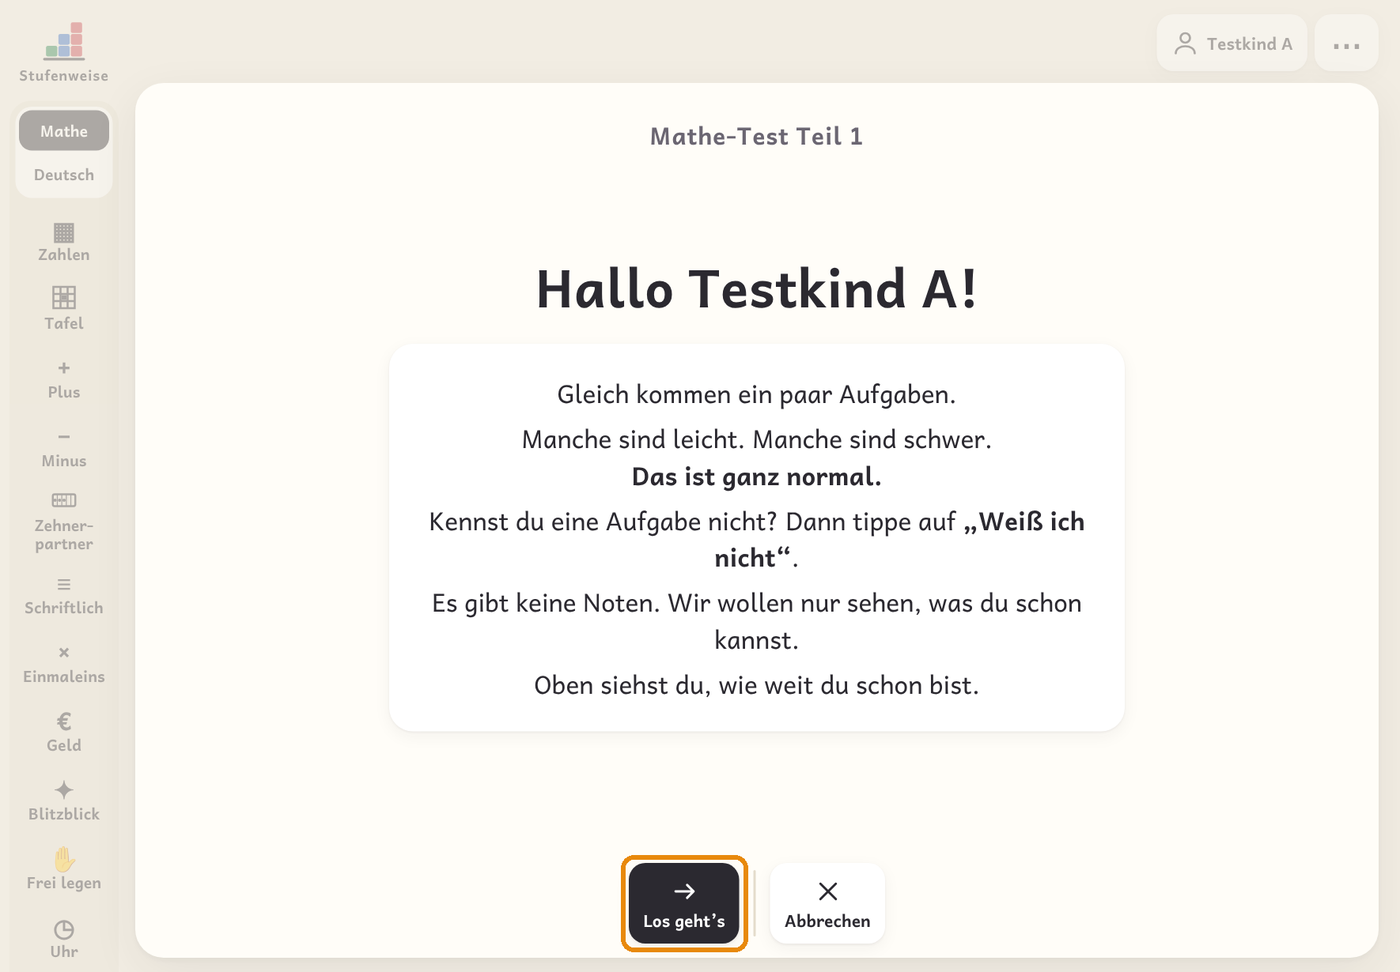
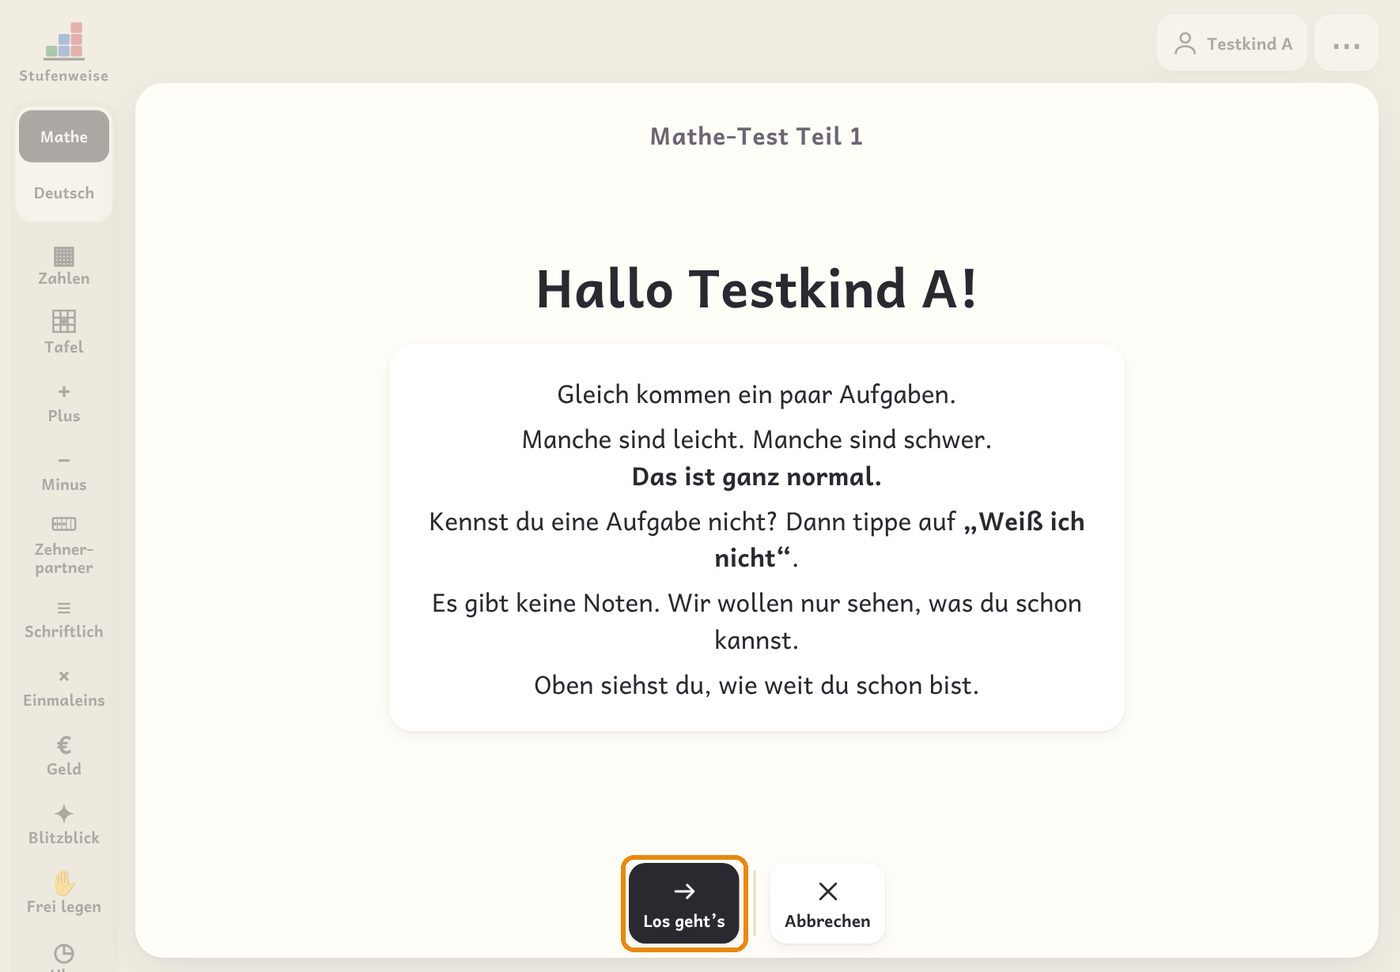
Testversion aus entwicklung (574d2d5): Stand 0.33.0
Claude-Session: https://claude.ai/code/session_01EfzymwcCT74kCf4Hq4zjqh

Changed region(s): [[0.0, 0.463, 0.0614, 1.0], [0.0, 0.1235, 0.0921, 0.3704], [0.0307, 0.4012, 0.0614, 0.4321]]

diff --git a/index.html b/index.html
@@ -10043,7 +10043,7 @@ document.addEventListener('change', e => { const c = e.target.closest('[data-sub
 document.addEventListener('change', e => { const s = e.target.closest('[data-guide-pid]'); if(!s) return; const p = data.profiles.find(x => x.id === s.dataset.guidePid); if(p){ p.guide = s.value || undefined; saveData(); render(); } });
 
 /* ---------- Rückmeldung (Testphase): Art, Schwere, Text + automatischer Kontext → E-Mail ---------- */
-const APP_VERSION = '0.33.0 · Testversion 19092f2 · 24.11.2026';
+const APP_VERSION = '0.34.0 · Testversion 574d2d5 · 24.11.2026';
 /* Danke-Seite: Namen nur mit Einverständnis eintragen, z. B. 'Vorname Nachname (Schule)' */
 const THANKS = [];
 const FB_REPO = 'https://github.com/Steffinuss/stufenweise';

diff --git a/tests/anleitung_bilder.py b/tests/anleitung_bilder.py
@@ -35,7 +35,7 @@ async def main():
         await pg.click('#padd button[type=submit]'); await pg.wait_for_timeout(300)
         await pg.click('#dlg-profile [data-close]'); await pg.wait_for_timeout(200)
         # Testen: Startseite → Testen → Kind → Test (seit 0.29.0 ein eigener Eingang)
-        await pg.click('#btn-home'); await pg.wait_for_timeout(300)
+        await pg.evaluate('goHome()'); await pg.wait_for_timeout(300)
         if await pg.locator('[data-ctx-reset]').count(): await pg.click('[data-ctx-reset]'); await pg.wait_for_timeout(300)
         await pg.click('[data-ctx-test]'); await pg.wait_for_timeout(300)
         await pg.click('[data-home-pick]'); await pg.wait_for_timeout(300)
@@ -74,11 +74,12 @@ async def main():
         await scrollto('^Förderzone'); await shot('09_foerderzone')
         await scrollto('ILEB'); await shot('10_ileb')
         await pg.click('#dlg-stats [data-close]'); await pg.wait_for_timeout(300)
-        await pg.click('#btn-home'); await pg.wait_for_timeout(300)
+        await pg.evaluate('goHome()'); await pg.wait_for_timeout(300)
         if await pg.locator("[data-ctx='practice']").count(): await pg.click("[data-ctx='practice']"); await pg.wait_for_timeout(300)
         if await pg.locator('[data-home-pick]').count(): await pg.click('[data-home-pick]'); await pg.wait_for_timeout(300)
         await shot('11_heute', 500, hl='.home-card')
         await pg.click('.home-card'); await shot('12_ueben', 600)
+        if await pg.locator('#fk-pause:visible').count(): await pg.click('#fk-pause'); await pg.wait_for_timeout(300)   # Konzentrationsmodus: Menü erst nach „Pause“
         await pg.click('#btn-more'); await pg.click('#btn-sheet'); await pg.wait_for_timeout(900)
         await pg.evaluate("const b=[...document.querySelectorAll('#dlg-sheet button')].find(b=>b.textContent.trim()==='Drucken'); b.id='hl-print'; b.scrollIntoView({block:'center', behavior:'instant'})"); await pg.wait_for_timeout(600)
         await shot('13_arbeitsblatt', 500, hl='#hl-print')
@@ -93,7 +94,7 @@ async def main():
         await shot('15_lizenz')
         # Materialkiste (seit 0.30.0): Startseite → Materialkiste → Kind → Taschenrechner mit Ergebnis als Material
         await pg.keyboard.press('Escape'); await pg.wait_for_timeout(200)
-        await pg.click('#btn-home'); await pg.wait_for_timeout(300)
+        await pg.evaluate('goHome()'); await pg.wait_for_timeout(300)
         if await pg.locator('[data-ctx-reset]').count(): await pg.click('[data-ctx-reset]'); await pg.wait_for_timeout(300)
         await pg.click('[data-ctx-kiste]'); await pg.wait_for_timeout(200)
         if await pg.locator('.home-names [data-home-pick]').count(): await pg.click('.home-names [data-home-pick]:not([data-home-pick=""])'); await pg.wait_for_timeout(200)

diff --git a/BACKLOG.md b/BACKLOG.md
@@ -4,7 +4,7 @@ Geplante Entwicklungsaufgaben für Stufenweise. Begonnenes steht in `IN_PROGRESS
 
 Regeln (Stand 17.11.2026): Der Funktionsumfang von `main` ist eingefroren, weil die App an Schulen genutzt wird. Neues entsteht nur im Zweig `entwicklung`, wird in der Testversion gezeigt und erst nach Stefans OK freigegeben (`docs/entwicklung.md`). Didaktische Entscheidungen trifft Stefan.
 
-Stand: 23.11.2026 (0.32.0)
+Stand: 24.11.2026 (0.33.0)
 
 ## Vorgeschlagene Reihenfolge
 
@@ -17,7 +17,7 @@ Stand: 23.11.2026 (0.32.0)
 | 4 | ~~**D** Materialkiste (Hilfen für Schüler*innen)~~ | mittel | freigegeben in 0.30.0 (20.11.2026), siehe `CHANGELOG.md` |
 | 5 | ~~**E** QR-Umzug schneller (+ Fehler F2)~~ | mittel | freigegeben in 0.31.0 (23.11.2026), zusammen mit F3 (Druck wie Vorschau), siehe `CHANGELOG.md` |
 | 6 | ~~**G** Hundertertafel-Blätter: Bezug zur Tafel sichtbar (+ Heft zur Förderzone)~~ | klein | freigegeben in 0.32.0 (23.11.2026), siehe `CHANGELOG.md` |
-| 7 | **H** Konzentrationsmodus für Kinder (+ Usability-Review) | klein bis mittel | gebaut in `entwicklung` (24.11.2026), wartet auf Stefans OK in der Testversion |
+| 7 | ~~**H** Konzentrationsmodus für Kinder (+ Usability-Review)~~ | klein bis mittel | freigegeben in 0.33.0 (24.11.2026), siehe `CHANGELOG.md` |
 
 Alternative: B zuerst als schneller Gewinn, während Stefan den Basis-Test ausprobiert.
 
@@ -25,7 +25,7 @@ Alternative: B zuerst als schneller Gewinn, während Stefan den Basis-Test auspr
 
 ## H: Konzentrationsmodus für Kinder
 
-**Status:** gebaut in `entwicklung` (24.11.2026), Testversion; wartet auf Stefans OK.
+**Status:** erledigt, freigegeben in 0.33.0 (24.11.2026).
 **Anlass (Stefan, 24.11.):** Beim Wechselgeld ist der Bildschirm sehr voll. Idee: eine Art „Fullscreen-Modus“, damit sich Kinder nur auf die Aufgabe konzentrieren.
 **Befund (Usability-Review 24.11., Dokument „Stufenweise – Usability-Review“, claude.ai/artifact/AdqPQacwdjd3vDwH9zfaQx):** Wechselgeld auf dem iPad: 30 Knöpfe sichtbar, 7 gehören zur Aufgabe; vier Anweisungen gleichzeitig; Rechnung „10 € − 7 €“ zum Auftrag „Ergänze“.
 **Vorschlag:** Bereichsleiste, Einstellleiste, Name und Menü ausblenden; ein Satz Auftrag, Tipp erst nach Fehlversuch; Fortschritt groß („3 von 10“); Knopf „Pause“ zurück zu „Heute für dich“; Einstellung wie „Geführte Oberfläche“ (alle oder einzelne Kinder), Lehrkraft mit PIN. Bausteine vorhanden (Leiste ausblenden, abgedunkelte Leiste im Test, PIN, Runden).

diff --git a/CHANGELOG.md b/CHANGELOG.md
@@ -5,6 +5,10 @@ Versionen: Hauptversion.Nebenversion.Korrektur (Korrektur = Fehlerbehebung, Nebe
 
 ## Unveröffentlicht (Zweig `entwicklung`, Testversion)
 
+- noch nichts
+
+## 0.33.0 – 24.11.2026
+
 Neu (Backlog H, Usability-Review vom 24.11.2026, Stefans Antworten im Dokument):
 - **Konzentrationsmodus** für alle Kinder, Standard an (Einstellungen → Kinder): Beim Üben sind Leiste, Einstellleiste, Name und Menü ausgeblendet. Oben stehen „Aufgabe 3 von 10“ mit Punkten, „Weiter“ (erst nach der Lösung oder nach zwei Fehlversuchen) und „Pause“ (zurück zur Startseite). Das Zahnrad zeigt mit der PIN alles bis zur Pause. Auch auf der Startseite keine Leiste. Nicht im Unterricht, im Test und in der Materialkiste.
 - **Zahlen mit Material im Konzentrationsmodus = Zählaufgabe:** Die Zahl und die Ziffern erscheinen erst, wenn das Kind richtig gezählt hat (vorher stand bei „Wie viele sind es? Zähle nach.“ die Zahl schon da). Im Lernstand als „Zahlen: Mengen abzählen“.
@@ -17,6 +21,7 @@ Geändert:
 - Uhr: „Volle Stunden“ und „Halbe Stunden“ ausgeschrieben; der Pfeil oben heißt „Neue Aufgabe“.
 - Umschalter Mathe/Deutsch 44 px hoch; Materialkiste: „Kiste zu“ statt „Fertig“, Taschenrechner ohne Material in der Mitte.
 - Lernstand: Sprungmarken je Fach oben; Arbeitsblätter: Druckhilfe aufklappbar („Probleme beim Drucken?“).
+- Anleitung: Abschnitt „Konzentrationsmodus“, Bilder neu.
 
 ## 0.32.0 – 23.11.2026
 

diff --git a/README.md b/README.md
@@ -1,4 +1,4 @@
-> **Testversion von Stufenweise** – Stand aus [Steffinuss/stufenweise](https://github.com/Steffinuss/stufenweise), Zweig `entwicklung` (19092f2). Nicht für den Unterricht. Hier nicht direkt arbeiten.
+> **Testversion von Stufenweise** – Stand aus [Steffinuss/stufenweise](https://github.com/Steffinuss/stufenweise), Zweig `entwicklung` (574d2d5). Nicht für den Unterricht. Hier nicht direkt arbeiten.
 
 # Stufenweise
 

diff --git a/IN_PROGRESS.md b/IN_PROGRESS.md
@@ -5,4 +5,4 @@ Arbeitsweise mit zwei Zweigen: `docs/entwicklung.md`.
 
 Stand: 23.11.2026
 
-Gerade nichts in Arbeit. Hundertertafel-Blätter und Heft zur Förderzone mit Optionen (Backlog G) sind mit 0.32.0 freigegeben (siehe `CHANGELOG.md`).
+Gerade nichts in Arbeit. Konzentrationsmodus und Punkte aus dem Usability-Review (Backlog H) sind mit 0.33.0 freigegeben (siehe `CHANGELOG.md`).
